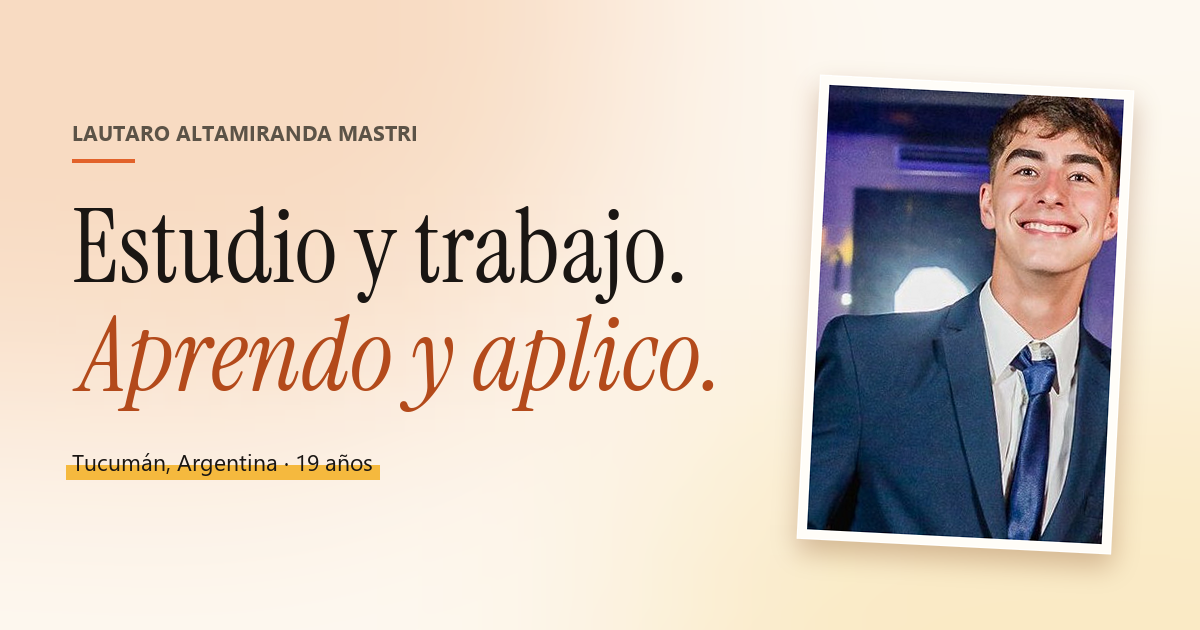
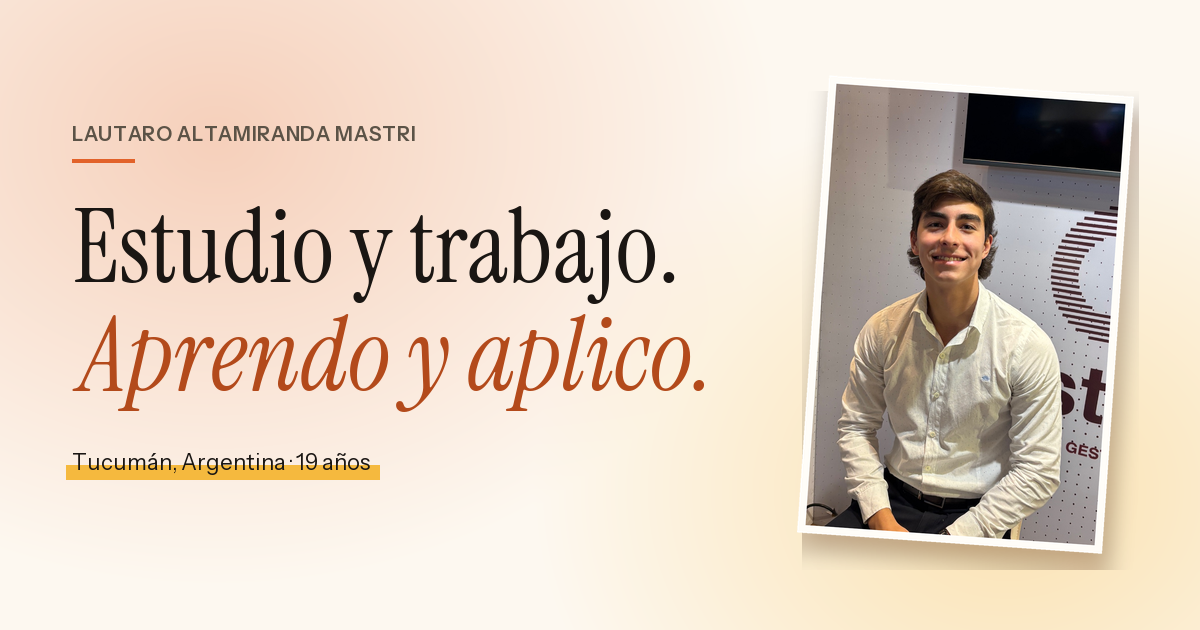
Poner la foto del stand en el hero y contar todo desde el entusiasmo
El retrato era una foto de evento —traje, salón, de noche— mientras el
título promete "Estudio y trabajo. Aprendo y aplico.". La foto decía "fui a
una fiesta". La nueva es el stand de Costear en EXPOCON: la marca detrás, la
notebook adelante. Recortada 2:3 a 308x462 desde el original del teléfono,
con la cara al medio del ancho y a un tercio de la altura, y sin metadatos
—venía con EXIF, incluida la ubicación—.

"Quién soy" se leía desde un lugar que no es el suyo. "Hago demasiadas cosas
a la vez" y "las voy a hacer todas bien? Posiblemente no" suenan a
sacrificio; el "cómo no vas a poder si no haces nada?" era directamente una
queja. Ahora el título es "no me quiero perder nada" y el remate cierra en
que tener el día lleno a esta edad es la vida que quería tener. El título
viejo también estaba pegado en las tres descripciones del link.

La idea 01 arrancaba con "la uso todos los días, y justamente por eso
desconfío" y gastaba el párrafo entero en un error. No es lo que piensa: la
usa todos los días y cada vez le encuentra más lugares. Ahora encabeza la
herramienta y no la IA —"te devuelven tiempo"—, la IA queda adentro del
párrafo y la verificación pasa a ser oficio: "no me hizo desconfiar, me
enseñó dónde mirar". Se acortó para que las tres tarjetas queden parejas:
con el texto largo, 01 estiraba a las otras dos.

Los seis epígrafes de la tira eran etiquetas ("En la parroquia", "El equipo
de Costear"). Ahora son frases. El de la parroquia iba a terminar en "la
[…]

diff --git a/index.html b/index.html
@@ -16,7 +16,7 @@
 -->
 
 <title>Lautaro Altamiranda Mastri — Estudio y trabajo. Aprendo y aplico.</title>
-<meta name="description" content="Tengo 19 años y hago demasiadas cosas a la vez: vendo viajes en Mareterra, construyo Costear —un software de costos con IA— y estudio Administración. Tucumán, Argentina.">
+<meta name="description" content="Tengo 19 años y no me quiero perder nada: vendo viajes en Mareterra, construyo Costear —un software de costos con IA— y estudio Administración. Tucumán, Argentina.">
 <meta name="author" content="Lautaro Altamiranda Mastri">
 <meta name="theme-color" content="#FDF8F0" media="(prefers-color-scheme: light)">
 <meta name="theme-color" content="#171310" media="(prefers-color-scheme: dark)">
@@ -34,7 +34,7 @@
 <meta property="og:locale" content="es_AR">
 <meta property="og:site_name" content="Lautaro Altamiranda Mastri">
 <meta property="og:title" content="Lautaro Altamiranda Mastri — Estudio y trabajo. Aprendo y aplico.">
-<meta property="og:description" content="Tengo 19 años y hago demasiadas cosas a la vez. Vendo viajes, construyo software de costos con IA y estudio. Lo que aprendo a la mañana lo aplico a la tarde.">
+<meta property="og:description" content="Tengo 19 años y no me quiero perder nada. Vendo viajes, construyo software de costos con IA y estudio. Lo que aprendo a la mañana lo aplico a la tarde.">
 <meta property="og:url" content="https://g-lautiialtamiranda.github.io/">
 <meta property="og:image" content="https://g-lautiialtamiranda.github.io/og.png">
 <meta property="og:image:width" content="1200">
@@ -42,7 +42,7 @@
 <meta property="og:image:alt" content="Lautaro Altamiranda Mastri — Estudio y trabajo. Aprendo y aplico.">
 <meta name="twitter:card" content="summary_large_image">
 <meta name="twitter:title" content="Lautaro Altamiranda Mastri — Estudio y trabajo. Aprendo y aplico.">
-<meta name="twitter:description" content="Tengo 19 años y hago demasiadas cosas a la vez. Vendo viajes, construyo software de costos con IA y estudio. Lo que aprendo a la mañana lo aplico a la tarde.">
+<meta name="twitter:description" content="Tengo 19 años y no me quiero perder nada. Vendo viajes, construyo software de costos con IA y estudio. Lo que aprendo a la mañana lo aplico a la tarde.">
 <meta name="twitter:image" content="https://g-lautiialtamiranda.github.io/og.png">
 
 <link rel="icon" href="favicon.svg" type="image/svg+xml">
@@ -205,8 +205,9 @@ a{color:var(--accent-text)}
    Para cambiar la foto: reemplazá assets/retrato.jpg y assets/retrato.webp
    por otras dos del mismo tamaño (308×462) y listo.
    Al recortarla, fijate dónde queda la cara: tiene que caer más o menos a la
-   mitad del ancho y a un tercio de la altura. La versión anterior la tenía al
-   78% del ancho y sobraba fondo desenfocado a la izquierda. */
+   mitad del ancho y a un tercio de la altura. La de ahora —el stand de
+   Costear en EXPOCON— está recortada así: la cara al medio y el logo de la
+   marca entrando por la derecha. */
 .hero__portrait{margin:0 0 2.25rem;width:min(52vw,13rem)}
 .hero__portrait img{
   width:100%;border-radius:.7rem;
@@ -258,7 +259,7 @@ a{color:var(--accent-text)}
    En teléfono se desliza de costado; en pantalla grande entra toda. */
 .strip{
   margin-top:2.5rem;padding:0;list-style:none;
-  display:grid;grid-auto-flow:column;grid-auto-columns:minmax(9.5rem,1fr);
+  display:grid;grid-auto-flow:column;grid-auto-columns:minmax(11rem,1fr);
   gap:1rem;overflow-x:auto;scroll-snap-type:x mandatory;
   padding-bottom:1rem;
   scrollbar-width:thin;
@@ -281,8 +282,19 @@ a{color:var(--accent-text)}
 .strip > li .shot:hover img{transform:rotate(0deg) scale(1.045)}
 .shot figcaption{
   margin-top:.7rem;font-size:.8rem;color:var(--muted);
-  letter-spacing:.02em;
+  letter-spacing:.02em;line-height:1.45;text-wrap:pretty;
 }
+
+/* Las seis no aparecen todas juntas: entran una detrás de otra. El retardo va
+   sobre el <li>, que es el que lleva la clase .reveal; el opacity:0 de arranque
+   y la transición se los pone el bloque 11, al final de la hoja. En teléfono,
+   donde la tira se desliza de costado, las que están fuera de pantalla esperan
+   a que las traigas — y entran igual, de a una. */
+.js .strip > li:nth-child(2).is-visible{transition-delay:.07s}
+.js .strip > li:nth-child(3).is-visible{transition-delay:.14s}
+.js .strip > li:nth-child(4).is-visible{transition-delay:.21s}
+.js .strip > li:nth-child(5).is-visible{transition-delay:.28s}
+.js .strip > li:nth-child(6).is-visible{transition-delay:.35s}
 
 /* ══════════════════ 7. CÓMO PIENSO ══════════════════ */
 .ideas{margin-top:3rem;display:grid;gap:1.25rem;list-style:none;padding:0}
@@ -375,7 +387,7 @@ a{color:var(--accent-text)}
       <figure class="hero__portrait">
         <picture>
           <source srcset="assets/retrato.webp" type="image/webp">
-          <img src="assets/retrato.jpg" alt="Retrato de Lautaro Altamiranda Mastri" width="308" height="462" fetchpriority="high">
+          <img src="assets/retrato.jpg" alt="Lautaro en el stand de Costear en EXPOCON, sentado frente a la notebook" width="308" height="462" fetchpriority="high">
         </picture>
       </figure>
 
@@ -404,11 +416,11 @@ a{color:var(--accent-text)}
   <section class="section" id="quien-soy" aria-labelledby="t-quien-soy">
     <div class="shell reveal">
       <p class="eyebrow">Quién soy</p>
-      <h2 class="section__title" id="t-quien-soy">Tengo 19 años y hago demasiadas cosas a la vez</h2>
+      <h2 class="section__title" id="t-quien-soy">Tengo 19 años y no me quiero perder nada</h2>
       <div class="about__body">
         <p>Vendo viajes en Mareterra, la agencia de mi familia. Construyo Costear, un software de costos con inteligencia artificial. Estudio Administración. Y en el medio, mi vida personal —que es la que sostiene las otras tres—.</p>
-        <p>Es difícil que se entienda desde afuera. A veces digo «me encantaría, pero no puedo» y me contestan «cómo no vas a poder si no haces nada?». No los culpo: de lejos parecen cuatro vidas sueltas. No lo son. <span class="mark">Todo se compagina en una sola persona.</span></p>
-        <p class="about__kicker">Son muchas cosas? Sí. Las voy a hacer todas bien? Posiblemente no. Pero no quiero dejar nada sin probar.</p>
+        <p>De afuera parecen cuatro vidas sueltas, y entiendo que cueste verlo. No lo son: se turnan, se prestan cosas, se explican entre ellas. Lo que aprendo en una me sirve en las otras tres. <span class="mark">Todo se compagina en una sola persona.</span></p>
+        <p class="about__kicker">Son muchas cosas? Sí, y las quiero todas. Tener el día lleno a esta edad es exactamente la vida que quería tener.</p>
       </div>
     </div>
   </section>
@@ -423,35 +435,35 @@ a{color:var(--accent-text)}
       <p class="eyebrow">Un poco de todo esto</p>
       <h2 class="section__title" id="t-fotos">Lo que digo lo estoy viviendo</h2>
       <ul class="strip">
-        <li><figure class="shot">
+        <li class="reveal"><figure class="shot">
           <picture><source srcset="assets/parroquia.webp" type="image/webp">
           <img src="assets/parroquia.jpg" alt="Lautaro con el grupo de la parroquia, de noche bajo una galería, alrededor de una imagen de la Virgen" width="440" height="587" loading="lazy"></picture>
-          <figcaption>En la parroquia</figcaption>
+          <figcaption>En la parroquia, con el grupo de siempre.</figcaption>
         </figure></li>
-        <li><figure class="shot">
+        <li class="reveal"><figure class="shot">
           <picture><source srcset="assets/costear-equipo.webp" type="image/webp">
           <img src="assets/costear-equipo.jpg" alt="Lautaro de camisa blanca junto a dos socios de Costear, contra una pared de piedra" width="440" height="587" loading="lazy"></picture>
-          <figcaption>El equipo de Costear</figcaption>
+          <figcaption>El equipo de Costear. Nada de esto lo armé solo.</figcaption>
         </figure></li>
-        <li><figure class="shot">
+        <li class="reveal"><figure class="shot">
           <picture><source srcset="assets/emprende-u.webp" type="image/webp">
           <img src="assets/emprende-u.jpg" alt="Lautaro presentando Costear en un aula, con el sistema de costos proyectado en la pantalla" width="440" height="587" loading="lazy"></picture>
-          <figcaption>Presentando en Emprende U</figcaption>
+          <figcaption>Emprende U: contarlo en voz alta y que se entienda.</figcaption>
         </figure></li>
-        <li><figure class="shot">
+        <li class="reveal"><figure class="shot">
           <picture><source srcset="assets/expocon.webp" type="image/webp">
           <img src="assets/expocon.jpg" alt="Lautaro con sus padres en el stand de Costear en EXPOCON" width="440" height="587" loading="lazy"></picture>
-          <figcaption>El stand en EXPOCON, con mis viejos</figcaption>
+          <figcaption>El stand en EXPOCON. Mis viejos vinieron a ver en qué andaba.</figcaption>
         </figure></li>
-        <li><figure class="shot">
+        <li class="reveal"><figure class="shot">
           <picture><source srcset="assets/mareterra-playa.webp" type="image/webp">
           <img src="assets/mareterra-playa.jpg" alt="Lautaro con la remera de Mareterra frente a una playa de agua turquesa" width="440" height="587" loading="lazy"></picture>
-          <figcaption>Grabando para la agencia</figcaption>
+          <figcaption>Grabando para la agencia. Vender un viaje es saber contarlo.</figcaption>
         </figure></li>
-        <li><figure class="shot">
+        <li class="reveal"><figure class="shot">
           <picture><source srcset="assets/mareterra-atardecer.webp" type="image/webp">
           <img src="assets/mareterra-atardecer.jpg" alt="Lautaro de espaldas, filmando con el teléfono el sol que baja sobre el mar" width="440" height="587" loading="lazy"></picture>
-          <figcaption>El mismo viaje, al atardecer</figcaption>
+          <figcaption>El mismo viaje, al atardecer. Esto también es trabajo.</figcaption>
         </figure></li>
       </ul>
     </div>
@@ -520,8 +532,8 @@ a{color:var(--accent-text)}
 
         <li class="idea">
           <span class="idea__num" aria-hidden="true">01</span>
-          <h3 class="idea__name">La inteligencia artificial sirve para ganar tiempo, no para reemplazarte</h3>
-          <p class="idea__what">La uso todos los días, y justamente por eso desconfío. Una vez comparé el resumen automático de una visita a una empresa contra la grabación entera: diez errores. Uno multiplicaba un costo por trece. Otro se había inventado el nombre de una persona. Desde entonces ningún número que sale de una máquina entra a un informe sin que alguien lo mire dos veces.</p>
+          <h3 class="idea__name">Las buenas herramientas te devuelven tiempo, y el tiempo es lo único que no se compra</h3>
+          <p class="idea__what">La inteligencia artificial me cambió el día: lo que antes era una tarde entera —ordenar comprobantes, armar un informe— hoy es un rato, y ese rato lo uso para pensar. La uso todos los días y cada vez le encuentro más lugares. Lo único que no me salteo es mirar el resultado: una vez comparé un resumen automático contra la grabación entera y encontré cosas para corregir. No me hizo desconfiar, me enseñó dónde mirar. <em>Es un copiloto buenísimo, y el que firma sigue siendo el que decide.</em></p>
         </li>
 
         <li class="idea">
@@ -574,7 +586,9 @@ a{color:var(--accent-text)}
 
 <footer class="footer">
   <div class="shell">
-    <p>Lautaro Altamiranda Mastri · Tucumán, Argentina · 2026</p>
+    <!-- El año lo pone el script del final. El 2026 escrito acá es el que se ve
+         si el visitante tiene JavaScript apagado: dejalo, no lo borres. -->
+    <p>Lautaro Altamiranda Mastri · Tucumán, Argentina · <span id="anio">2026</span></p>
   </div>
 </footer>
 
@@ -592,7 +606,12 @@ a{color:var(--accent-text)}
     el.textContent = el.dataset.mailUser + String.fromCharCode(64) + el.dataset.mailDomain;
   });
 
-  /* ── 2. La máquina de escribir del hero ──────────────────────────────
+  /* ── 2. El año del pie ───────────────────────────────────────────────
+     Así no hay que acordarse de cambiarlo cada 1 de enero. */
+  var anio = document.getElementById('anio');
+  if (anio) { anio.textContent = new Date().getFullYear(); }
+
+  /* ── 3. La máquina de escribir del hero ──────────────────────────────
      Para cambiar las frases, editá esta lista. La última es la que queda
      fija cuando termina la vuelta. */
   var FRASES = [
@@ -633,7 +652,7 @@ a{color:var(--accent-text)}
     }
   }
 
-  /* ── 3. Revelado suave de cada sección al entrar en pantalla ─────────── */
+  /* ── 4. Revelado suave de cada sección al entrar en pantalla ─────────── */
   var bloques = document.querySelectorAll('.reveal');
   if (quieto.matches || !('IntersectionObserver' in window)) {
     bloques.forEach(function (el) { el.classList.add('is-visible'); });
@@ -649,7 +668,7 @@ a{color:var(--accent-text)}
     bloques.forEach(function (el) { observador.observe(el); });
   }
 
-  /* ── 4. Las tarjetas de "cómo pienso" se inclinan siguiendo el mouse ──
+  /* ── 5. Las tarjetas de "cómo pienso" se inclinan siguiendo el mouse ──
      Solo con mouse de verdad (en pantallas táctiles no se activa) y solo
      si el visitante no pidió reducir el movimiento. */
   var fino = window.matchMedia('(hover: hover) and (pointer: fine)');

diff --git a/README.md b/README.md
@@ -79,6 +79,12 @@ está entre `>` y `</p>`:
 > segunda línea en itálica naranja), el epígrafe con el marcador amarillo y el mismo
 > retrato que el hero, rotado y con marco blanco.
 
+### El año del pie
+
+No hay que tocarlo: lo escribe el navegador solo, con el año en curso. En el HTML
+está puesto `2026` a mano, pero eso es únicamente lo que se ve si el visitante tiene
+JavaScript apagado — dejalo ahí.
+
 ### Los datos de contacto
 
 Están en cuatro lugares, todos marcados con el comentario **`[CONTACTO]`**. Hay además un
@@ -101,7 +107,7 @@ manteniendo el nombre:
 
 | Archivo | Qué es | Recorte |
 |---|---|---|
-| `retrato` | El retrato del hero | Vertical 2:3 (308×462) |
+| `retrato` | El retrato del hero: vos en el stand de Costear en EXPOCON | Vertical 2:3 (308×462) |
 | `parroquia` | El grupo de la parroquia | Vertical 3:4 (440×587) |
 | `costear-equipo` | Vos con dos socios de Costear | Vertical 3:4 (440×587) |
 | `emprende-u` | Presentando, con el sistema proyectado | Vertical 3:4 (440×587) |
@@ -110,9 +116,12 @@ manteniendo el nombre:
 | `mareterra-atardecer` | De espaldas, filmando el atardecer | Vertical 3:4 (440×587) |
 | `costear-gaceta` | El recorte del diario, dentro del bloque de Costear | Apaisado (880×239) |
 
-Después, en `index.html`, actualizá el **`alt`** y el **`<figcaption>`** de esa foto para
-que digan lo que se ve. El `alt` es lo que lee alguien que no puede ver la imagen: escribí
-qué pasa en la foto, no «foto 3».
+Después, en `index.html`, actualizá el **`alt`** y el **`<figcaption>`** de esa foto. Son
+dos cosas distintas y conviene no repetirlas: el `alt` es lo que lee alguien que no puede
+ver la imagen —escribí qué pasa en la foto, no «foto 3»—, y el `<figcaption>` es lo que lee
+todo el mundo debajo de la foto. Ese va en tu voz y **dice algo**: no «En la parroquia»
+sino «En la parroquia. Es la parte que no entra en ningún currículum». Una línea, dos como
+mucho; si se hace más largo, deja de leerse.
 
 > **Sacales los metadatos.** Una foto sacada con el teléfono viaja con la fecha, el modelo del
 > aparato y, muy seguido, las **coordenadas GPS exactas** de dónde se tomó. Publicada tal cual,
